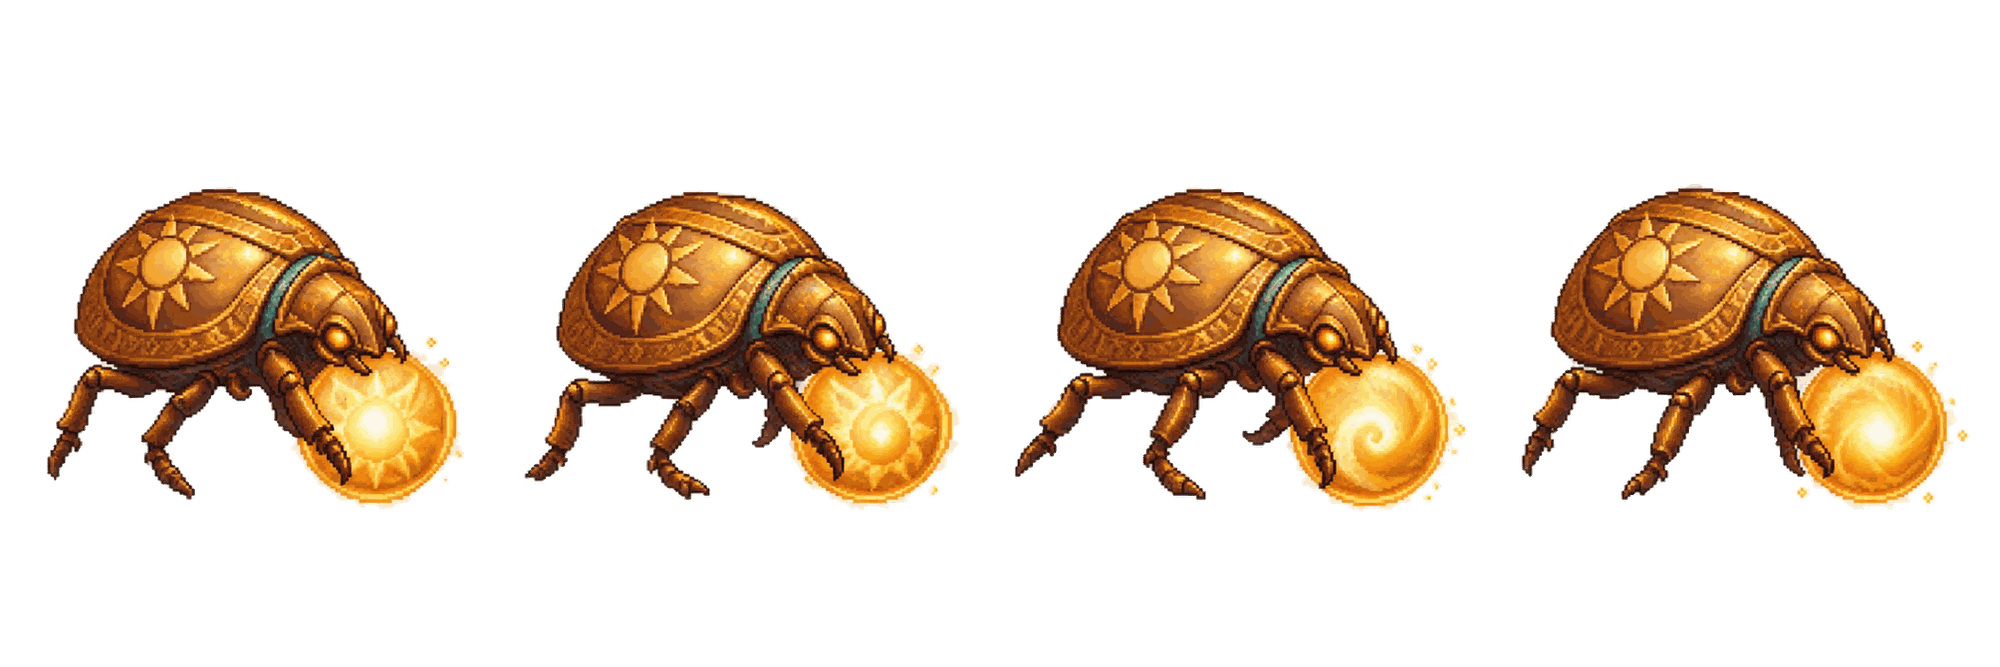
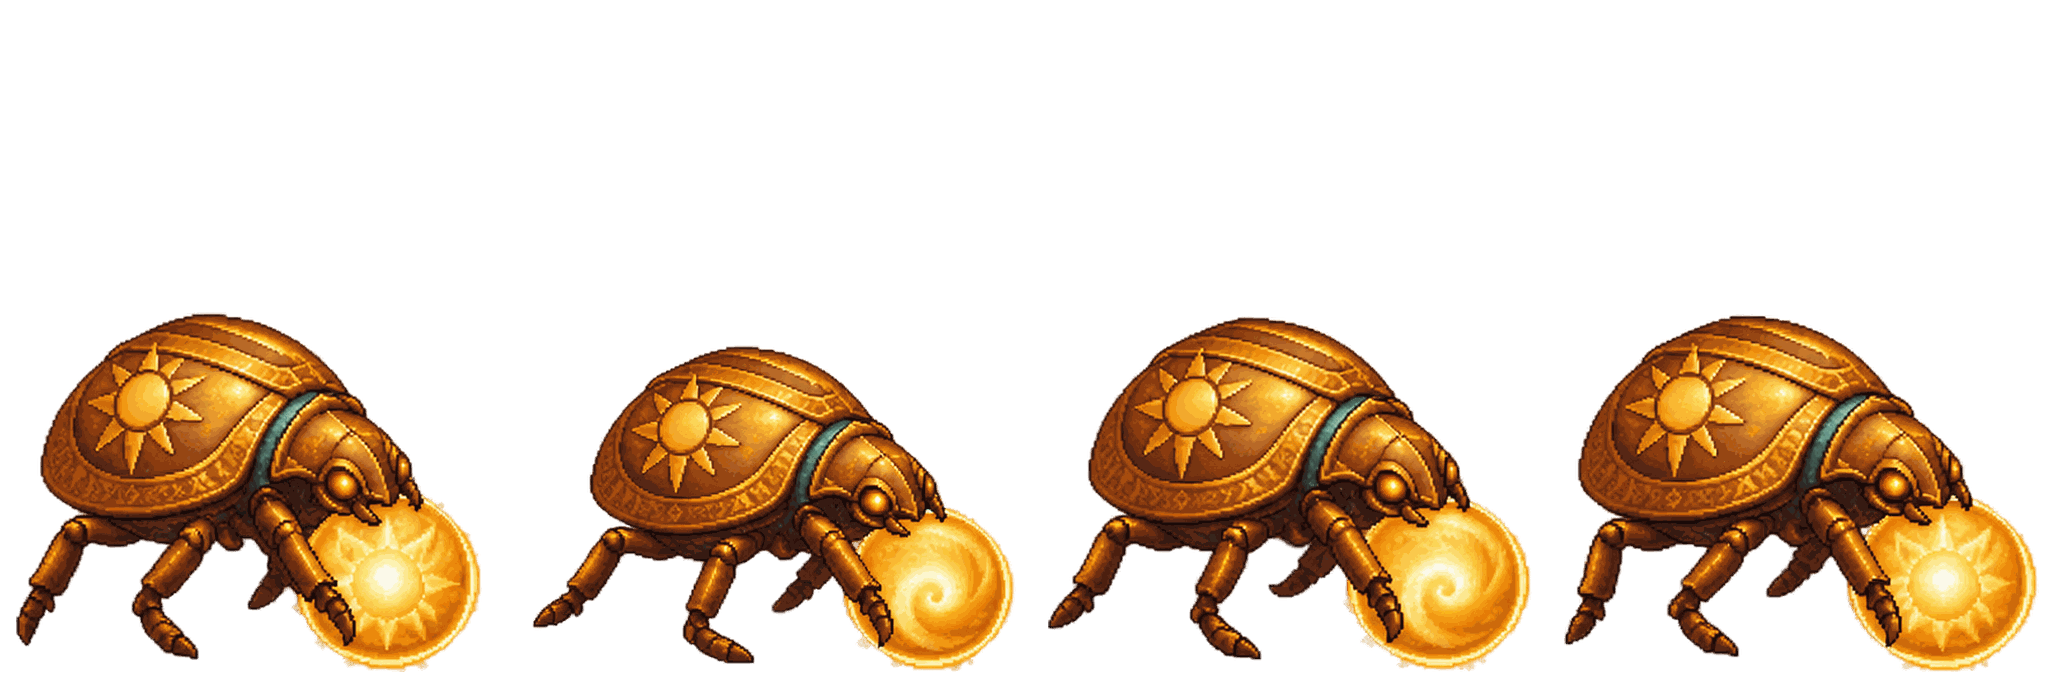
Round 269: the Solar Scarab walks (#49)
Claude-Session: https://claude.ai/code/session_01XB2RMCaJ1aVVtBjSNk3FhS

diff --git a/assets/elaris-wildlife.js b/assets/elaris-wildlife.js
@@ -4,7 +4,7 @@ const ELARIS_WILDLIFE={
  // Round 172: Solaris is a sun-scorched brass desert city, so its creatures were renamed and
  // reworked to match. Ids stay the same so saves carry over. Rounds 193-195 gave them the owner's
  // own sheets (see ELARIS-ART.md).
- cinderFox:{name:'Solar Scarab',icon:'☼',hp:38,attack:7,element:'fire',sheet:'solar-scarab',cycle:'.95s'},
+ cinderFox:{name:'Solar Scarab',icon:'☼',hp:38,attack:7,element:'fire',sheet:'solar-scarab',cycle:'.8s'}, // Round 269: the owner's eight-frame walk (four frames used)
  drownedHeron:{name:'Mirage Ibis',icon:'≈',hp:55,attack:9,element:'water',sheet:'mirage-ibis',cycle:'1.4s'},
  blightAntler:{name:'Dune Scorpion',icon:'◆',hp:44,attack:8,element:'earth',sheet:'dune-scorpion',cycle:'1.2s'},
  stormMoth:{name:'Dust Devil',icon:'≋',hp:52,attack:9,element:'air',sheet:'dust-devil',cycle:'.7s'},
@@ -42,7 +42,7 @@ const cityMonsterArt=monsterArt;
 // Round 196: a sheet name with a folder ('sky/zenith-roc') is read from assets/monsters/<folder>/;
 // big:true draws it in the larger boss box.
 // Round 200: bump SPRITE_VERSION when sheets are re-cut, so browsers fetch the new images.
-const SPRITE_VERSION='268';
+const SPRITE_VERSION='269';
 function wildlifeSheetUrl(sheet){return 'assets/monsters/'+(sheet.includes('/')?sheet:'elaris/'+sheet)+'.png?v='+SPRITE_VERSION}
 monsterArt=function(id){const animal=ELARIS_WILDLIFE[id]||WILDLIFE_ART[id];if(!animal)return cityMonsterArt(id);return '<span class="monster-sprite wildlife-sprite'+(animal.big?' bloom-tyrant':'')+'" role="img" aria-label="'+animal.name+'" style="background-image:url('+wildlifeSheetUrl(animal.sheet)+');--wildlife-cycle:'+animal.cycle+'"></span>'};
 // Round 249: a boss node's sprite box was square (142px, sized for Neon Aftermath's boss pictures), which

diff --git a/index.html b/index.html
@@ -551,7 +551,7 @@ if(localStorage.getItem(SAVE_KEY))$('resumeBtn').classList.remove('hidden');
 addEventListener('resize',()=>{fitWorld();fitMap();renderTalentConnectors()});fitWorld();
 requestAnimationFrame(loop);
 </script>
-<script src="assets/elaris-wildlife.js?v=round268"></script>
+<script src="assets/elaris-wildlife.js?v=round269"></script>
 <script src="assets/solaris-data.js?v=round232"></script>
 <script src="assets/expansion.js?v=round265"></script>
 <script src="assets/encounter-depth.js?v=round246"></script>

diff --git a/CHANGES.md b/CHANGES.md
@@ -3496,6 +3496,15 @@ Playtest of Neon Aftermath's three relics (Moon Lens 5,4; Ember Sigil 5,7; Briar
 - Talent descriptions list the per-rank values. Tests updated: round76, chronospire,
   talent-matrix, card-variety, plating-armor.
 
+## Round 269: the Solar Scarab walks
+
+- The owner sent an eight-frame, right-facing walk for Solaris's Solar Scarab (`cinderFox`). It is based on the
+  old four-frame sheet and keeps the sun-emblem shell and sun orb. The source strip is
+  `assets/monsters/elaris/src/solar-scarab-walk8.png`.
+- Frames 1, 3, 5 and 7 are composed into `assets/monsters/elaris/solar-scarab.png` (replacing the old sheet), then
+  padded. The cycle is .8s, down from .95s, to match the owner's timing.
+- `SPRITE_VERSION` 269. New `tests/solar-scarab.test.cjs`.
+
 ## Round 268: the Lunar Enforcer glides
 
 - The owner sent an eight-frame levitating glide for Neon Aftermath's mini-boss, the Lunar Enforcer (`moonKnight`).

diff --git a/CLAUDE.md b/CLAUDE.md
@@ -4,7 +4,7 @@ Aethercede is a browser card-battler/exploration game in vanilla JS with no
 build step. Open `index.html` directly. `compendium.html` is the card
 gallery; `arena.html` is a standalone prototype and is left untouched.
 
-**Read `CHANGES.md` first.** Every round of work (Round 1 to Round 268) is
+**Read `CHANGES.md` first.** Every round of work (Round 1 to Round 269) is
 logged there with its reasoning. Add a new `## Round N:` entry for each
 change set.
 
